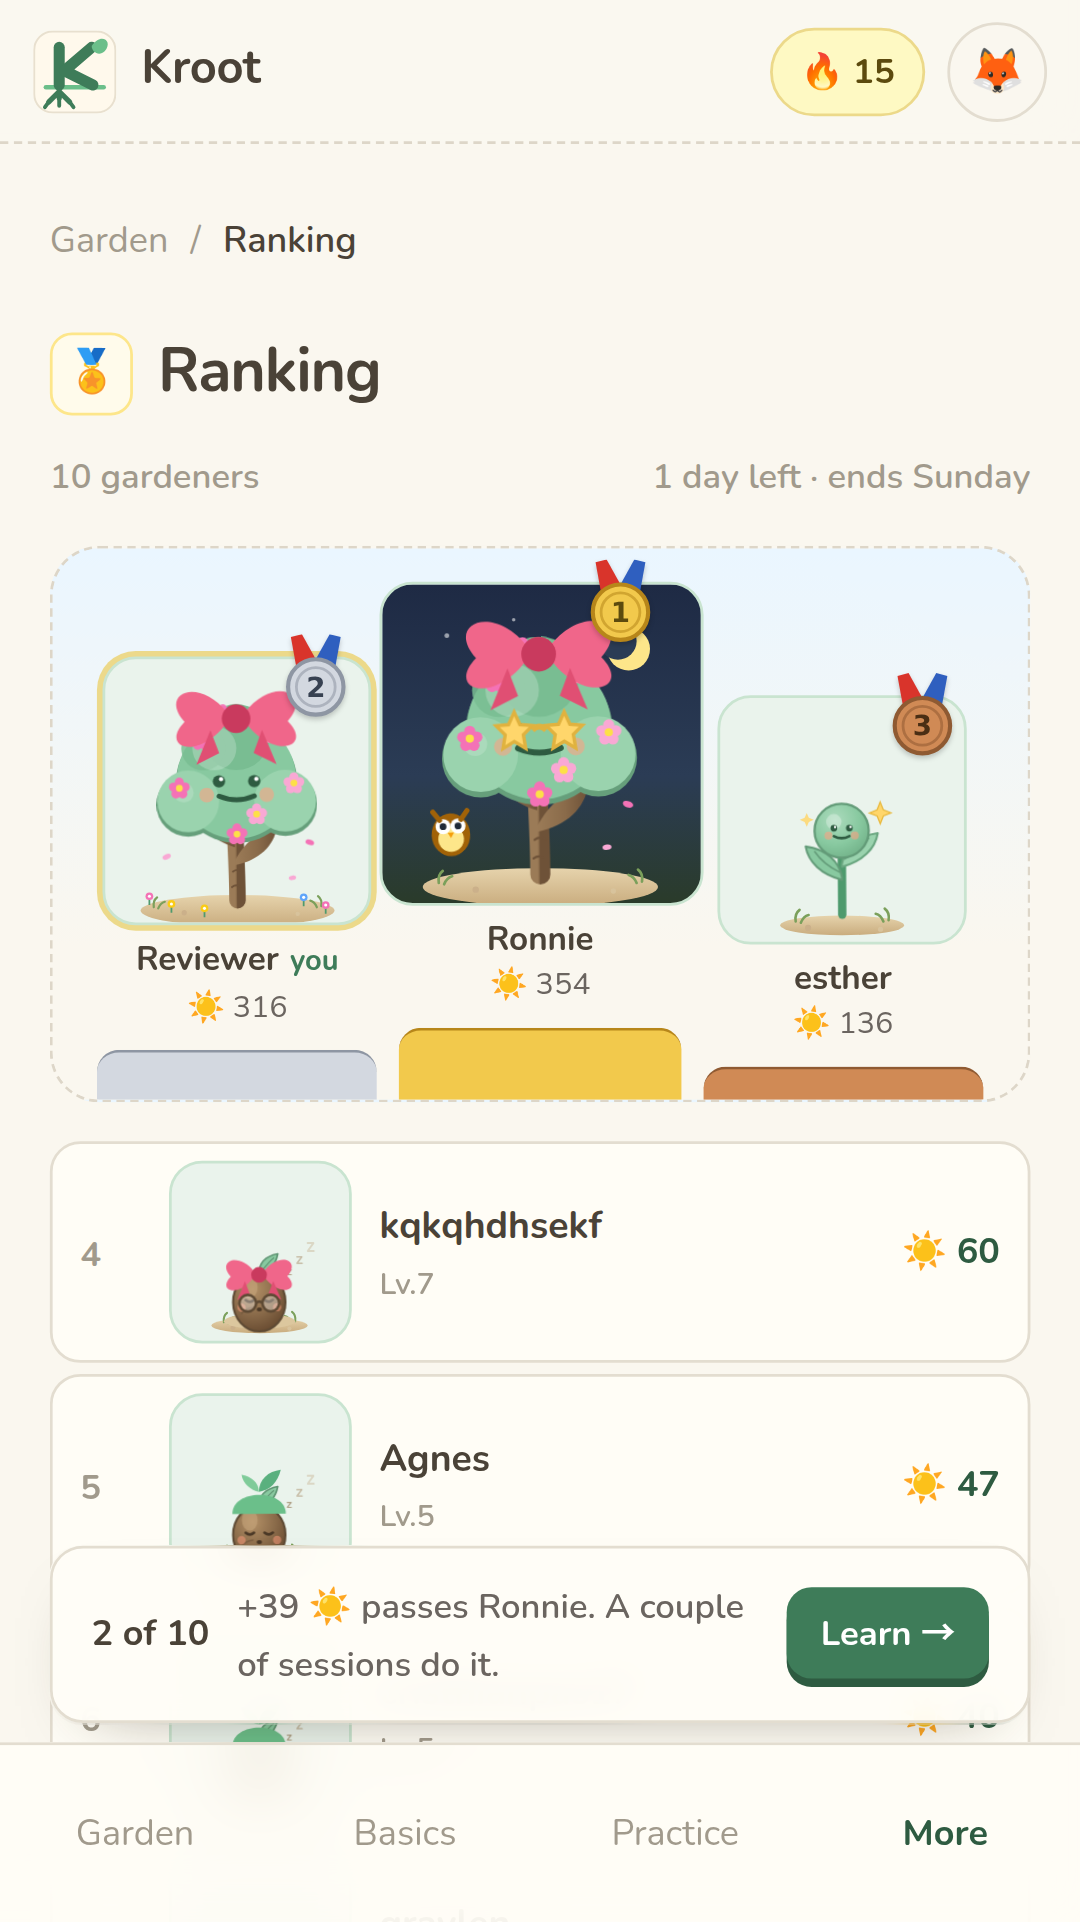
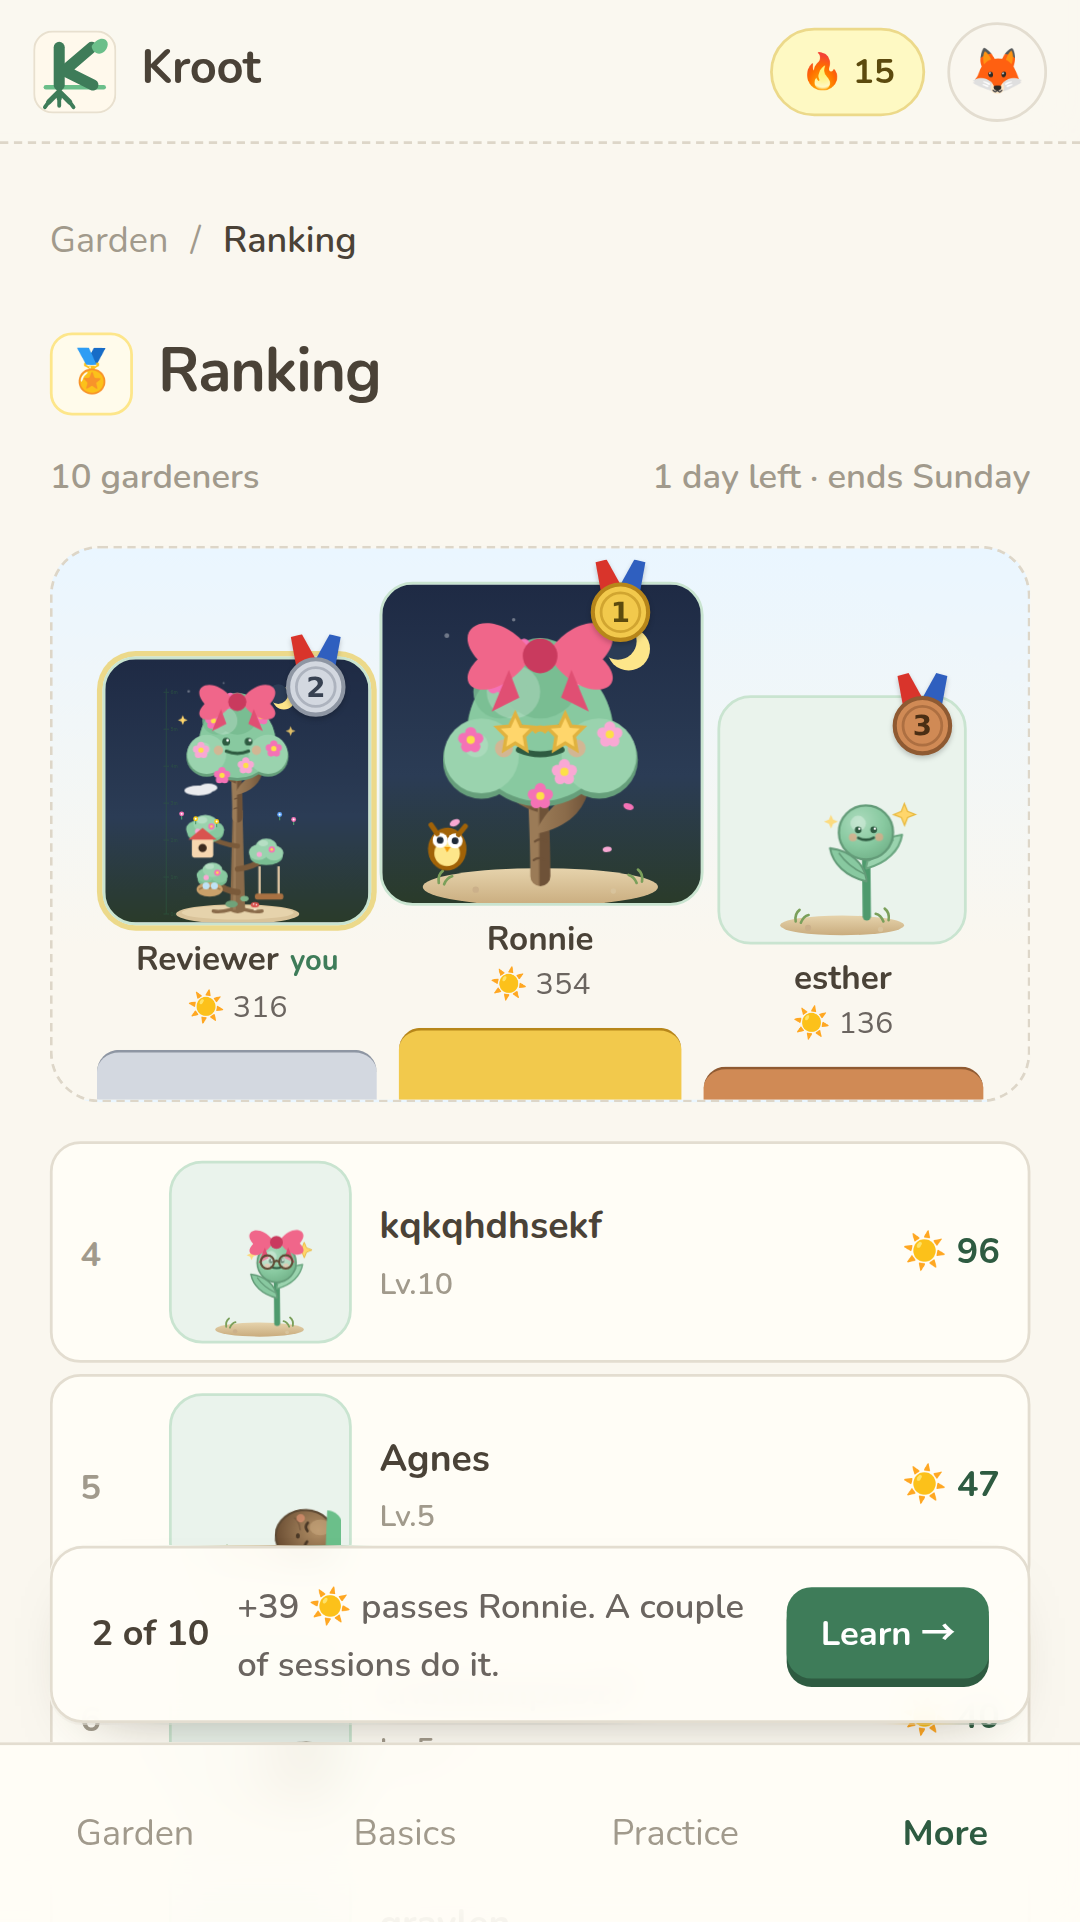
Play Store screenshots v6: Lv.83 tree on moonlit-night sky (dashboard, shop, ranking)
Claude-Session: https://claude.ai/code/session_0172ajqtxEBMSZdMLjTxGUXR

diff --git a/_refs/store/play-listing.md b/_refs/store/play-listing.md
@@ -68,15 +68,15 @@ Questions or ideas? Tap the 💬 button in the app — a real person reads every
 | Phone screenshots | 2–8, 16:9 or 9:16, 320–3840 px | 🟡 `screenshots/` (raw captures, see below) |
 | 7" tablet screenshots | optional | skip for v1 |
 
-Captured 2026-09-06 v5 (1080×1922, 390×694 CSS px ×2.77, review account on dev server; set per user):
-1. `01-dashboard` — tree card; name/avatar swapped in the DOM to "Ronnie" + the owner's photo (DB untouched)
+Captured 2026-09-06 v6 (1080×1922, 390×694 CSS px ×2.77, review account on dev server; set per user):
+1. `01-dashboard` — Lv.83 veteran tree on "moonlit-night" sky; name/avatar swapped in the DOM to "Ronnie" + the owner's photo. Level/sky came from a local, uncommitted edit of dashboard/shop pages + RankingBoard (`level = 83`, equipped + "moonlit-night") on the dev server — reverted after the shoot; DB untouched
 2. `02-listening` — Cafe A1 clip, two characters + waveform
 3. `03-vocabulary` — Japanese UI (/ja) with the More-sheet language menu open (shows all 5 languages)
 4. `04-reading` — Chapter 1 scrolled to the "Morning routine" title, tapped word popup (시 · o'clock)
 5. `05-writing` — Chapter 1 Q1 with one tile placed (저는) and a 👆 hand on the next (빵을) — hand is a DOM overlay
 6. `06-vocabulary` — English Chapter 1 Day 1 word list; sticky "Continue Chapter 1 →" bar hidden for the shot (pronunciation shot dropped by user)
-7. `07-shop` — try-on tree + category tabs + first item cards ("This week only" banner and slot chips moved off-screen for the shot — banner must stay in the DOM, its SVG holds the trunk gradient defs)
-8. `08-ranking` — Garden Fair podium (shows other users' display names — user OK'd)
+7. `07-shop` — Lv.83 night try-on tree + category tabs + first item cards ("This week only" banner and slot chips moved off-screen for the shot — banner must stay in the DOM, its SVG holds the trunk gradient defs)
+8. `08-ranking` — Garden Fair podium, own row shown as Lv.83 night tree (same local override); shows other users' display names — user OK'd
 
 Add caption text over each (Figma / Canva), e.g. "One quest a day", "Say it, get scored".
 
